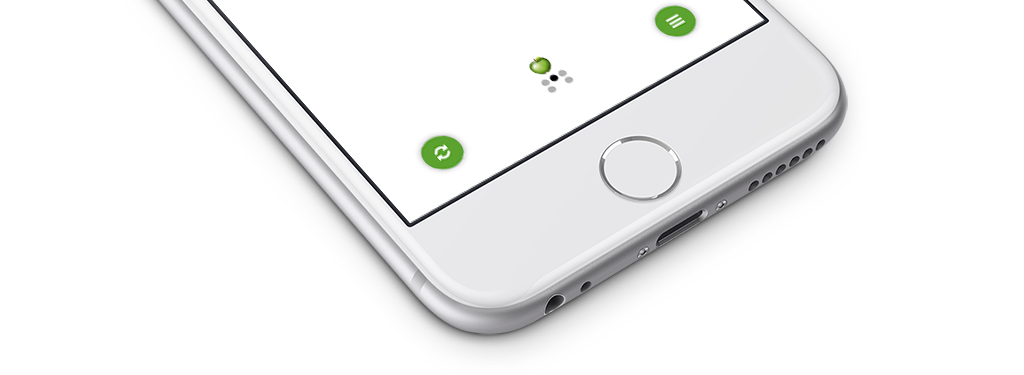
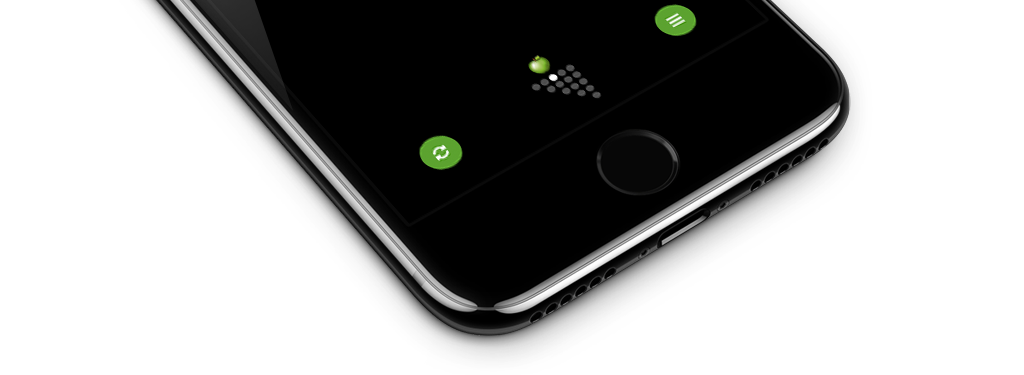
update ftr page

diff --git a/ftr.html b/ftr.html
@@ -44,7 +44,7 @@
 			margin-top: 380px;
 		}
 		.title {
-			font-weight: 100;
+			font-weight: 300;
 			font-size: 88px;
 		}
 		.subtitle {
@@ -95,6 +95,10 @@
 			<span class="text">
 				<div>Hamarosan.</div>
 			</span>	
+		</div>
+
+		<div class="image-wrapper">
+			<img src="ftr_phone.png" alt="FTR" />
 		</div>
 		
 	</div>
